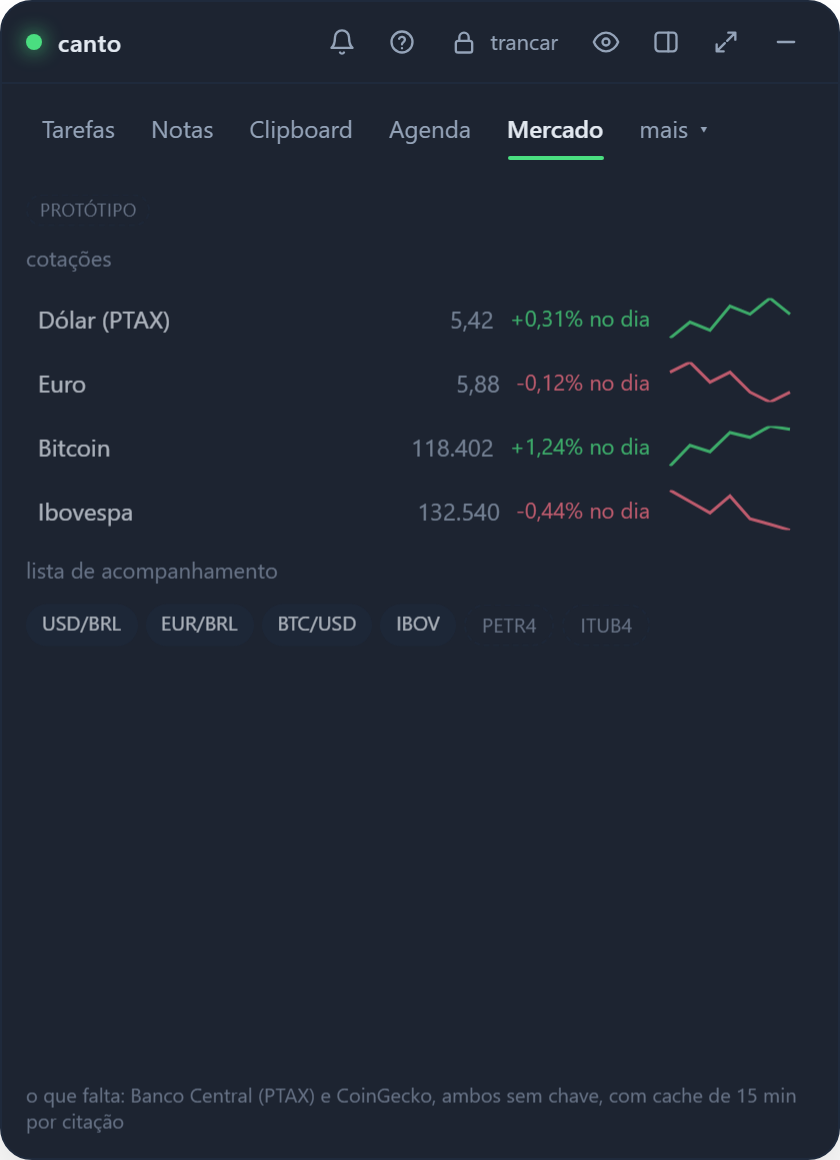
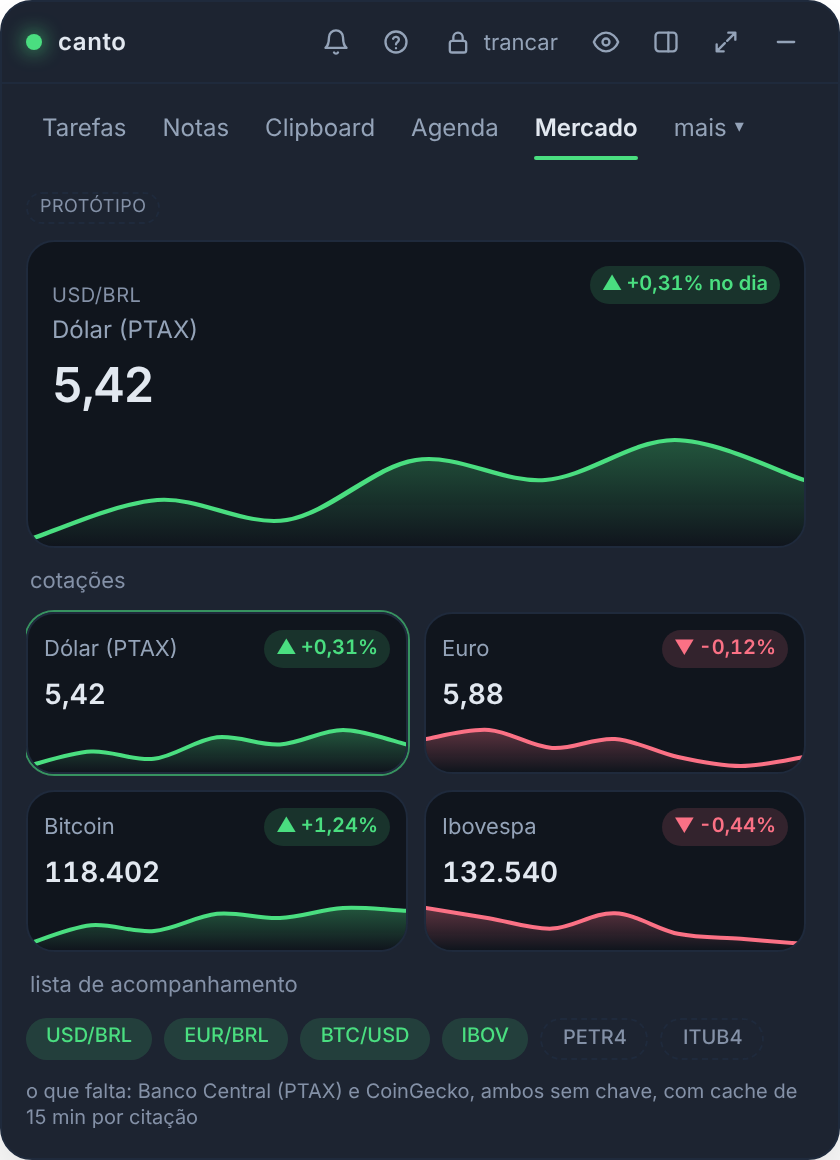
feat: aba Mercado com destaque, cartões e gráficos de área
The market prototype was a plain list with tiny polylines. It now has a
spotlight card (value, the day's change as a pill, a smooth area chart that
draws in), a two-column grid of quote cards with mini charts, and picking a
card moves its curve to the spotlight. Up/down use the skin's ok/danger
colors so they stay distinct on skins whose accent is red.

Claude-Session: https://claude.ai/code/session_011WCTRGWqZ4xM2nkGJ2gbmp

diff --git a/src/components/ProtoMarket.tsx b/src/components/ProtoMarket.tsx
@@ -1,37 +1,75 @@
+import { useState, type CSSProperties } from "react";
 import { t } from "../i18n";
 import { MARKET, signedPercent } from "../lib/protos";
-import { sparkline } from "../lib/sparkline";
+import MarketChart from "./MarketChart";
+import MarketDelta from "./MarketDelta";
 import ProtoFrame from "./ProtoFrame";
 
-/** Prototype: keyless quotes with the day's variation and a small curve; the watchlist would live in the vault. */
+const WATCHLIST = ["USD/BRL", "EUR/BRL", "BTC/USD", "IBOV", "PETR4", "ITUB4"];
+
+/** Prototype: keyless quotes with the day's variation; picking a card puts its curve in the spotlight. */
 export default function ProtoMarket() {
+  const [picked, setPicked] = useState(MARKET[0].symbol);
+  const hero = MARKET.find((quote) => quote.symbol === picked) ?? MARKET[0];
+  const up = hero.change >= 0;
   return (
     <ProtoFrame needs={t("protos.market.needs")}>
-      <h3 className="text-[11px] text-faint">{t("protos.market.quotes")}</h3>
-      <ul className="flex flex-col gap-1">
-        {MARKET.map((quote) => (
-          <li key={quote.symbol} data-proto-quote={quote.symbol} className="flex items-center gap-2 rounded-lg px-1.5 py-1 hover:bg-hover">
-            <span className="min-w-0 flex-1 truncate text-xs text-fg">{quote.label}</span>
-            <span className="shrink-0 text-xs tabular-nums text-muted">{quote.value}</span>
-            <span className={`shrink-0 text-[11px] tabular-nums ${quote.change >= 0 ? "text-accent-text" : "text-danger"}`}>
-              {t("protos.market.change", { n: signedPercent(quote.change) })}
-            </span>
-            <svg viewBox="0 0 60 20" className={`h-5 w-16 shrink-0 ${quote.change >= 0 ? "text-accent" : "text-danger"}`} aria-hidden="true">
-              <polyline points={sparkline(quote.points, 60, 20)} fill="none" stroke="currentColor" strokeWidth="1.5" />
-            </svg>
+      <section
+        data-market-hero={hero.symbol}
+        className={`wx-glass wx-rise relative shrink-0 overflow-hidden p-3 bg-gradient-to-br ${up ? "from-ok/10" : "from-danger/10"} to-transparent`}
+      >
+        <div className="flex items-start justify-between gap-2">
+          <div className="min-w-0">
+            <span className="text-[10px] uppercase tracking-wide text-faint">{hero.symbol}</span>
+            <h3 className="truncate text-xs text-muted">{hero.label}</h3>
+          </div>
+          <MarketDelta change={hero.change} label={t("protos.market.change", { n: signedPercent(hero.change) })} />
+        </div>
+        <p className="mt-1 text-2xl font-semibold tabular-nums tracking-tight text-fg">{hero.value}</p>
+        <div className="-mx-3 -mb-3 mt-2">
+          <MarketChart key={hero.symbol} points={hero.points} up={up} width={240} height={56} draw />
+        </div>
+      </section>
+      <h3 className="px-0.5 text-[11px] text-faint">{t("protos.market.quotes")}</h3>
+      <ul className="grid shrink-0 grid-cols-2 gap-2">
+        {MARKET.map((quote, index) => (
+          <li key={quote.symbol} className="wx-rise" style={{ "--i": index + 1 } as CSSProperties}>
+            <button
+              type="button"
+              data-proto-quote={quote.symbol}
+              aria-pressed={quote.symbol === hero.symbol}
+              onClick={() => setPicked(quote.symbol)}
+              className={`wx-glass flex w-full flex-col gap-1 overflow-hidden p-2 pb-0 text-left transition-colors hover:bg-hover focus-visible:outline-2 focus-visible:outline-accent ${
+                quote.symbol === hero.symbol ? "ring-1 ring-accent/60" : ""
+              }`}
+            >
+              <span className="flex items-center justify-between gap-1">
+                <span className="truncate text-[11px] text-muted">{quote.label}</span>
+                <MarketDelta change={quote.change} />
+              </span>
+              <span className="text-sm font-semibold tabular-nums text-fg">{quote.value}</span>
+              <span className="-mx-2">
+                <MarketChart points={quote.points} up={quote.change >= 0} width={120} height={24} />
+              </span>
+            </button>
           </li>
         ))}
       </ul>
-      <h3 className="text-[11px] text-faint">{t("protos.market.watchlist")}</h3>
-      <div className="flex flex-wrap gap-1">
-        {["USD/BRL", "EUR/BRL", "BTC/USD", "IBOV", "PETR4", "ITUB4"].map((symbol, index) => (
-          <span
-            key={symbol}
-            className={`rounded-full px-2 py-0.5 text-[10px] ${index < 4 ? "bg-edge text-fg" : "border border-dashed border-edge text-faint"}`}
-          >
-            {symbol}
-          </span>
-        ))}
+      <h3 className="px-0.5 text-[11px] text-faint">{t("protos.market.watchlist")}</h3>
+      <div className="flex flex-wrap gap-1.5">
+        {WATCHLIST.map((symbol) => {
+          const tracked = MARKET.some((quote) => quote.symbol === symbol);
+          return (
+            <span
+              key={symbol}
+              className={`rounded-full px-2.5 py-0.5 text-[10px] font-medium ${
+                tracked ? "bg-accent/15 text-accent-text" : "border border-dashed border-edge text-faint"
+              }`}
+            >
+              {symbol}
+            </span>
+          );
+        })}
       </div>
     </ProtoFrame>
   );

diff --git a/src/components/ProtosTabs.test.tsx b/src/components/ProtosTabs.test.tsx
@@ -1,5 +1,5 @@
 import { afterEach, beforeEach, expect, mock, test } from "bun:test";
-import { cleanup, render, screen } from "@testing-library/react";
+import { cleanup, fireEvent, render, screen } from "@testing-library/react";
 
 const calls: string[] = [];
 
@@ -19,11 +19,20 @@ afterEach(cleanup);
 
 test("the market prototype shows every quote with the day's variation", () => {
   render(<ProtoMarket />);
-  expect(screen.getByText("Dólar (PTAX)")).toBeTruthy();
+  expect(screen.getAllByText("Dólar (PTAX)")).toHaveLength(2);
   expect(screen.getByText("+0,31% no dia")).toBeTruthy();
-  expect(screen.getByText("-0,44% no dia")).toBeTruthy();
+  expect(screen.getByText("-0,44%")).toBeTruthy();
   expect(document.querySelectorAll("[data-proto-quote]")).toHaveLength(4);
-  expect(document.querySelectorAll("polyline")).toHaveLength(4);
+  expect(document.querySelectorAll("[data-market-delta=down]")).toHaveLength(2);
+});
+
+test("the first quote starts in the spotlight and picking a card moves its curve there", () => {
+  render(<ProtoMarket />);
+  expect(document.querySelector("[data-market-hero]")?.getAttribute("data-market-hero")).toBe("USD/BRL");
+  fireEvent.click(screen.getByRole("button", { name: /Ibovespa/ }));
+  expect(document.querySelector("[data-market-hero]")?.getAttribute("data-market-hero")).toBe("IBOV");
+  expect(screen.getByRole("button", { name: /Ibovespa/ }).getAttribute("aria-pressed")).toBe("true");
+  expect(screen.getByText("-0,44% no dia")).toBeTruthy();
 });
 
 test("no prototype calls the backend on mount: they are mockups", () => {

diff --git a/src/components/MarketChart.tsx b/src/components/MarketChart.tsx
@@ -1,0 +1,36 @@
+import { useId } from "react";
+import { smoothCurve } from "../lib/sparkline";
+
+/** A smooth curve over a fading area, colored by the day's direction; `draw` animates the stroke in. */
+export default function MarketChart({ points, up, width, height, draw = false }: { points: number[]; up: boolean; width: number; height: number; draw?: boolean }) {
+  const gradient = useId();
+  const step = points.length > 1 ? width / (points.length - 1) : 0;
+  const { line, area } = smoothCurve(points, points.map((_, i) => i * step), height, 3);
+  return (
+    <svg
+      viewBox={`0 0 ${width} ${height}`}
+      preserveAspectRatio="none"
+      className={`block w-full ${up ? "text-ok" : "text-danger"}`}
+      style={{ height }}
+      aria-hidden="true"
+    >
+      <defs>
+        <linearGradient id={gradient} x1="0" y1="0" x2="0" y2="1">
+          <stop offset="0" stopColor="currentColor" stopOpacity="0.32" />
+          <stop offset="1" stopColor="currentColor" stopOpacity="0" />
+        </linearGradient>
+      </defs>
+      <path className={draw ? "wx-area" : undefined} d={area} fill={`url(#${gradient})`} />
+      <path
+        className={draw ? "wx-draw" : undefined}
+        d={line}
+        pathLength={1}
+        fill="none"
+        stroke="currentColor"
+        strokeWidth="2"
+        strokeLinecap="round"
+        vectorEffect={draw ? undefined : "non-scaling-stroke"}
+      />
+    </svg>
+  );
+}

diff --git a/src/components/MarketDelta.tsx b/src/components/MarketDelta.tsx
@@ -1,0 +1,17 @@
+import { signedPercent } from "../lib/protos";
+
+/** The day's variation as a tinted pill with its arrow; up and down keep their colors whatever the skin's accent. */
+export default function MarketDelta({ change, label }: { change: number; label?: string }) {
+  const up = change >= 0;
+  return (
+    <span
+      data-market-delta={up ? "up" : "down"}
+      className={`inline-flex shrink-0 items-center gap-0.5 rounded-full px-1.5 py-0.5 text-[10px] font-semibold tabular-nums ${
+        up ? "bg-ok/15 text-ok" : "bg-danger/15 text-danger"
+      }`}
+    >
+      <span aria-hidden="true">{up ? "▲" : "▼"}</span>
+      {label ?? `${signedPercent(change)}%`}
+    </span>
+  );
+}

diff --git a/scripts/media/protos.media.ts b/scripts/media/protos.media.ts
@@ -10,6 +10,8 @@ test("leituras e o protótipo de mercado", async ({ browser }) => {
   const page = await fullScene(browser);
   for (const [tab, name] of SHOTS) {
     await openTab(page, tab);
+    // Real wait: the page clock is frozen, and the CSS entrance animations run on the real one.
+    await page.waitForTimeout(1800);
     await page.screenshot({ path: `docs/prints/app/${name}.png`, omitBackground: true });
   }
 });

diff --git a/README.md b/README.md
@@ -494,9 +494,10 @@ would still need, so the idea can be judged before it becomes real.
 
 | Market |
 |---|
-| <img src="docs/prints/app/94-prototipo-mercado.png" alt="Market prototype: dollar, euro, bitcoin and Ibovespa with the day's variation and a small curve"> |
+| <img src="docs/prints/app/94-prototipo-mercado.png" alt="Market prototype: the dollar in the spotlight with a smooth area chart, and dollar, euro, bitcoin and Ibovespa as cards with the day's variation and a mini chart"> |
 
-- **Market** — dollar (PTAX), euro, bitcoin, Ibovespa and the world's main indexes with the day's variation. Would
+- **Market** — dollar (PTAX), euro, bitcoin, Ibovespa and the world's main indexes with the day's variation: one
+  quote in the spotlight with a smooth area chart, the rest as cards with a mini chart (click one to spotlight it). Would
   need the Central Bank, CoinGecko and CNBC, all keyless, with a 15 min cache per quote.
 
 <sub>All screenshots use fictitious data.</sub>

diff --git a/CHANGELOG.md b/CHANGELOG.md
@@ -5,6 +5,13 @@ versões em [SemVer](https://semver.org/lang/pt-BR/).
 
 ## [Não publicado]
 
+### Alterado
+
+- **Mercado com cara nova**: a cotação em destaque ganhou um cartão grande com o valor, a variação do dia numa
+  pílula com seta e uma curva suave com área degradê que se desenha ao abrir; as quatro cotações viram cartões em
+  grade com mini gráfico, e **clicar num cartão leva a curva dele para o destaque**. Alta e baixa usam as cores de
+  sucesso e perigo do tema, então continuam legíveis em qualquer skin. Segue protótipo com dados fictícios.
+
 ### Corrigido
 
 - **Cliques bloqueados por uma janela invisível no canto da tela**: o pop-up de avisos ficava aberto e transparente
